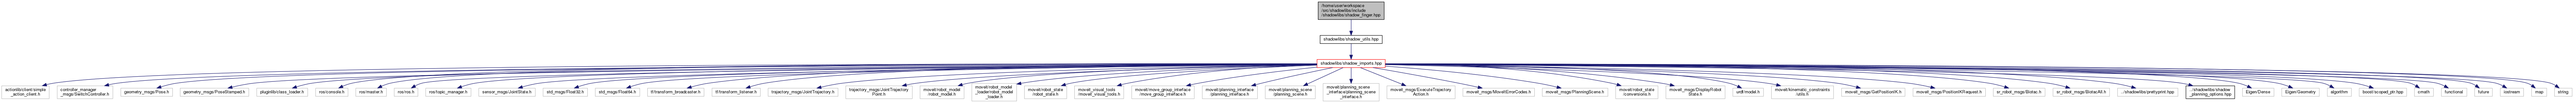
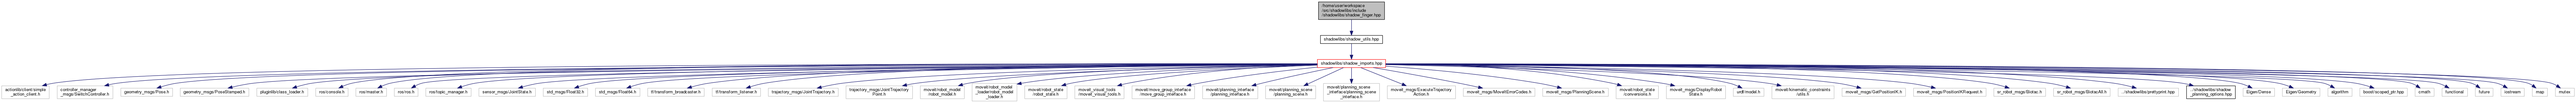
Add import for mutex

diff --git a/docs/doxygen_generated/html/shadow__imports_8hpp_source.html b/docs/doxygen_generated/html/shadow__imports_8hpp_source.html
@@ -89,7 +89,7 @@ var searchBox = new SearchBox("searchBox", "search",false,'Search');
 <div class="title">shadow_imports.hpp</div>  </div>
 </div><!--header-->
 <div class="contents">
-<a href="shadow__imports_8hpp.html">Go to the documentation of this file.</a><div class="fragment"><div class="line"><a name="l00001"></a><span class="lineno">    1</span>&#160;<span class="comment">//</span></div><div class="line"><a name="l00002"></a><span class="lineno">    2</span>&#160;<span class="comment">// Created by kganguly on 5/3/19.</span></div><div class="line"><a name="l00003"></a><span class="lineno">    3</span>&#160;<span class="comment">//</span></div><div class="line"><a name="l00004"></a><span class="lineno">    4</span>&#160;</div><div class="line"><a name="l00005"></a><span class="lineno">    5</span>&#160;<span class="preprocessor">#pragma once</span></div><div class="line"><a name="l00006"></a><span class="lineno">    6</span>&#160;</div><div class="line"><a name="l00007"></a><span class="lineno">    7</span>&#160;<span class="comment">// ROS</span></div><div class="line"><a name="l00008"></a><span class="lineno">    8</span>&#160;<span class="preprocessor">#include &lt;actionlib/client/simple_action_client.h&gt;</span></div><div class="line"><a name="l00009"></a><span class="lineno">    9</span>&#160;<span class="preprocessor">#include &lt;controller_manager_msgs/SwitchController.h&gt;</span></div><div class="line"><a name="l00010"></a><span class="lineno">   10</span>&#160;<span class="preprocessor">#include &lt;geometry_msgs/Pose.h&gt;</span></div><div class="line"><a name="l00011"></a><span class="lineno">   11</span>&#160;<span class="preprocessor">#include &lt;geometry_msgs/PoseStamped.h&gt;</span></div><div class="line"><a name="l00012"></a><span class="lineno">   12</span>&#160;<span class="preprocessor">#include &lt;pluginlib/class_loader.h&gt;</span></div><div class="line"><a name="l00013"></a><span class="lineno">   13</span>&#160;<span class="preprocessor">#include &lt;ros/console.h&gt;</span></div><div class="line"><a name="l00014"></a><span class="lineno">   14</span>&#160;<span class="preprocessor">#include &lt;ros/master.h&gt;</span></div><div class="line"><a name="l00015"></a><span class="lineno">   15</span>&#160;<span class="preprocessor">#include &lt;ros/ros.h&gt;</span></div><div class="line"><a name="l00016"></a><span class="lineno">   16</span>&#160;<span class="preprocessor">#include &lt;ros/topic_manager.h&gt;</span></div><div class="line"><a name="l00017"></a><span class="lineno">   17</span>&#160;<span class="preprocessor">#include &lt;sensor_msgs/JointState.h&gt;</span></div><div class="line"><a name="l00018"></a><span class="lineno">   18</span>&#160;<span class="preprocessor">#include &lt;std_msgs/Float32.h&gt;</span></div><div class="line"><a name="l00019"></a><span class="lineno">   19</span>&#160;<span class="preprocessor">#include &lt;std_msgs/Float64.h&gt;</span></div><div class="line"><a name="l00020"></a><span class="lineno">   20</span>&#160;<span class="preprocessor">#include &lt;tf/transform_broadcaster.h&gt;</span></div><div class="line"><a name="l00021"></a><span class="lineno">   21</span>&#160;<span class="preprocessor">#include &lt;tf/transform_listener.h&gt;</span></div><div class="line"><a name="l00022"></a><span class="lineno">   22</span>&#160;<span class="preprocessor">#include &lt;trajectory_msgs/JointTrajectory.h&gt;</span></div><div class="line"><a name="l00023"></a><span class="lineno">   23</span>&#160;<span class="preprocessor">#include &lt;trajectory_msgs/JointTrajectoryPoint.h&gt;</span></div><div class="line"><a name="l00024"></a><span class="lineno">   24</span>&#160;</div><div class="line"><a name="l00025"></a><span class="lineno">   25</span>&#160;<span class="comment">// MoveIt</span></div><div class="line"><a name="l00026"></a><span class="lineno">   26</span>&#160;<span class="preprocessor">#include &lt;moveit/robot_model/robot_model.h&gt;</span></div><div class="line"><a name="l00027"></a><span class="lineno">   27</span>&#160;<span class="preprocessor">#include &lt;moveit/robot_model_loader/robot_model_loader.h&gt;</span></div><div class="line"><a name="l00028"></a><span class="lineno">   28</span>&#160;<span class="preprocessor">#include &lt;moveit/robot_state/robot_state.h&gt;</span></div><div class="line"><a name="l00029"></a><span class="lineno">   29</span>&#160;</div><div class="line"><a name="l00030"></a><span class="lineno">   30</span>&#160;<span class="comment">// RViz</span></div><div class="line"><a name="l00031"></a><span class="lineno">   31</span>&#160;<span class="preprocessor">#include &lt;moveit_visual_tools/moveit_visual_tools.h&gt;</span></div><div class="line"><a name="l00032"></a><span class="lineno">   32</span>&#160;</div><div class="line"><a name="l00033"></a><span class="lineno">   33</span>&#160;<span class="comment">// MoveIt Planning</span></div><div class="line"><a name="l00034"></a><span class="lineno">   34</span>&#160;<span class="preprocessor">#include &lt;moveit/move_group_interface/move_group_interface.h&gt;</span></div><div class="line"><a name="l00035"></a><span class="lineno">   35</span>&#160;<span class="preprocessor">#include &lt;moveit/planning_interface/planning_interface.h&gt;</span></div><div class="line"><a name="l00036"></a><span class="lineno">   36</span>&#160;<span class="preprocessor">#include &lt;moveit/planning_scene/planning_scene.h&gt;</span></div><div class="line"><a name="l00037"></a><span class="lineno">   37</span>&#160;<span class="preprocessor">#include &lt;moveit/planning_scene_interface/planning_scene_interface.h&gt;</span></div><div class="line"><a name="l00038"></a><span class="lineno">   38</span>&#160;<span class="preprocessor">#include &lt;moveit_msgs/ExecuteTrajectoryAction.h&gt;</span></div><div class="line"><a name="l00039"></a><span class="lineno">   39</span>&#160;<span class="preprocessor">#include &lt;moveit_msgs/MoveItErrorCodes.h&gt;</span></div><div class="line"><a name="l00040"></a><span class="lineno">   40</span>&#160;<span class="preprocessor">#include &lt;moveit_msgs/PlanningScene.h&gt;</span></div><div class="line"><a name="l00041"></a><span class="lineno">   41</span>&#160;</div><div class="line"><a name="l00042"></a><span class="lineno">   42</span>&#160;<span class="comment">// Robot State</span></div><div class="line"><a name="l00043"></a><span class="lineno">   43</span>&#160;<span class="preprocessor">#include &lt;moveit/robot_state/conversions.h&gt;</span></div><div class="line"><a name="l00044"></a><span class="lineno">   44</span>&#160;<span class="preprocessor">#include &lt;moveit_msgs/DisplayRobotState.h&gt;</span></div><div class="line"><a name="l00045"></a><span class="lineno">   45</span>&#160;<span class="preprocessor">#include &lt;urdf/model.h&gt;</span></div><div class="line"><a name="l00046"></a><span class="lineno">   46</span>&#160;</div><div class="line"><a name="l00047"></a><span class="lineno">   47</span>&#160;<span class="comment">// Kinematics</span></div><div class="line"><a name="l00048"></a><span class="lineno">   48</span>&#160;<span class="preprocessor">#include &lt;moveit/kinematic_constraints/utils.h&gt;</span></div><div class="line"><a name="l00049"></a><span class="lineno">   49</span>&#160;<span class="preprocessor">#include &lt;moveit_msgs/GetPositionIK.h&gt;</span></div><div class="line"><a name="l00050"></a><span class="lineno">   50</span>&#160;<span class="preprocessor">#include &lt;moveit_msgs/PositionIKRequest.h&gt;</span></div><div class="line"><a name="l00051"></a><span class="lineno">   51</span>&#160;</div><div class="line"><a name="l00052"></a><span class="lineno">   52</span>&#160;<span class="comment">// BioTac</span></div><div class="line"><a name="l00053"></a><span class="lineno">   53</span>&#160;<span class="preprocessor">#include &lt;sr_robot_msgs/Biotac.h&gt;</span></div><div class="line"><a name="l00054"></a><span class="lineno">   54</span>&#160;<span class="preprocessor">#include &lt;sr_robot_msgs/BiotacAll.h&gt;</span></div><div class="line"><a name="l00055"></a><span class="lineno">   55</span>&#160;</div><div class="line"><a name="l00056"></a><span class="lineno">   56</span>&#160;<span class="comment">// CPP</span></div><div class="line"><a name="l00057"></a><span class="lineno">   57</span>&#160;<span class="preprocessor">#include &quot;../shadowlibs/prettyprint.hpp&quot;</span></div><div class="line"><a name="l00058"></a><span class="lineno">   58</span>&#160;<span class="preprocessor">#include &quot;../shadowlibs/shadow_planning_options.hpp&quot;</span></div><div class="line"><a name="l00059"></a><span class="lineno">   59</span>&#160;<span class="preprocessor">#include &lt;Eigen/Dense&gt;</span></div><div class="line"><a name="l00060"></a><span class="lineno">   60</span>&#160;<span class="preprocessor">#include &lt;Eigen/Geometry&gt;</span></div><div class="line"><a name="l00061"></a><span class="lineno">   61</span>&#160;<span class="preprocessor">#include &lt;algorithm&gt;</span></div><div class="line"><a name="l00062"></a><span class="lineno">   62</span>&#160;<span class="preprocessor">#include &lt;boost/scoped_ptr.hpp&gt;</span></div><div class="line"><a name="l00063"></a><span class="lineno">   63</span>&#160;<span class="preprocessor">#include &lt;cmath&gt;</span></div><div class="line"><a name="l00064"></a><span class="lineno">   64</span>&#160;<span class="preprocessor">#include &lt;functional&gt;</span></div><div class="line"><a name="l00065"></a><span class="lineno">   65</span>&#160;<span class="preprocessor">#include &lt;future&gt;</span></div><div class="line"><a name="l00066"></a><span class="lineno">   66</span>&#160;<span class="preprocessor">#include &lt;iostream&gt;</span></div><div class="line"><a name="l00067"></a><span class="lineno">   67</span>&#160;<span class="preprocessor">#include &lt;map&gt;</span></div><div class="line"><a name="l00068"></a><span class="lineno">   68</span>&#160;<span class="preprocessor">#include &lt;string&gt;</span></div><div class="line"><a name="l00069"></a><span class="lineno">   69</span>&#160;<span class="preprocessor">#include &lt;thread&gt;</span></div><div class="line"><a name="l00070"></a><span class="lineno">   70</span>&#160;<span class="preprocessor">#include &lt;time.h&gt;</span></div><div class="line"><a name="l00071"></a><span class="lineno">   71</span>&#160;<span class="preprocessor">#include &lt;tuple&gt;</span></div></div><!-- fragment --></div><!-- contents -->
+<a href="shadow__imports_8hpp.html">Go to the documentation of this file.</a><div class="fragment"><div class="line"><a name="l00001"></a><span class="lineno">    1</span>&#160;<span class="comment">//</span></div><div class="line"><a name="l00002"></a><span class="lineno">    2</span>&#160;<span class="comment">// Created by kganguly on 5/3/19.</span></div><div class="line"><a name="l00003"></a><span class="lineno">    3</span>&#160;<span class="comment">//</span></div><div class="line"><a name="l00004"></a><span class="lineno">    4</span>&#160;</div><div class="line"><a name="l00005"></a><span class="lineno">    5</span>&#160;<span class="preprocessor">#pragma once</span></div><div class="line"><a name="l00006"></a><span class="lineno">    6</span>&#160;</div><div class="line"><a name="l00007"></a><span class="lineno">    7</span>&#160;<span class="comment">// ROS</span></div><div class="line"><a name="l00008"></a><span class="lineno">    8</span>&#160;<span class="preprocessor">#include &lt;actionlib/client/simple_action_client.h&gt;</span></div><div class="line"><a name="l00009"></a><span class="lineno">    9</span>&#160;<span class="preprocessor">#include &lt;controller_manager_msgs/SwitchController.h&gt;</span></div><div class="line"><a name="l00010"></a><span class="lineno">   10</span>&#160;<span class="preprocessor">#include &lt;geometry_msgs/Pose.h&gt;</span></div><div class="line"><a name="l00011"></a><span class="lineno">   11</span>&#160;<span class="preprocessor">#include &lt;geometry_msgs/PoseStamped.h&gt;</span></div><div class="line"><a name="l00012"></a><span class="lineno">   12</span>&#160;<span class="preprocessor">#include &lt;pluginlib/class_loader.h&gt;</span></div><div class="line"><a name="l00013"></a><span class="lineno">   13</span>&#160;<span class="preprocessor">#include &lt;ros/console.h&gt;</span></div><div class="line"><a name="l00014"></a><span class="lineno">   14</span>&#160;<span class="preprocessor">#include &lt;ros/master.h&gt;</span></div><div class="line"><a name="l00015"></a><span class="lineno">   15</span>&#160;<span class="preprocessor">#include &lt;ros/ros.h&gt;</span></div><div class="line"><a name="l00016"></a><span class="lineno">   16</span>&#160;<span class="preprocessor">#include &lt;ros/topic_manager.h&gt;</span></div><div class="line"><a name="l00017"></a><span class="lineno">   17</span>&#160;<span class="preprocessor">#include &lt;sensor_msgs/JointState.h&gt;</span></div><div class="line"><a name="l00018"></a><span class="lineno">   18</span>&#160;<span class="preprocessor">#include &lt;std_msgs/Float32.h&gt;</span></div><div class="line"><a name="l00019"></a><span class="lineno">   19</span>&#160;<span class="preprocessor">#include &lt;std_msgs/Float64.h&gt;</span></div><div class="line"><a name="l00020"></a><span class="lineno">   20</span>&#160;<span class="preprocessor">#include &lt;tf/transform_broadcaster.h&gt;</span></div><div class="line"><a name="l00021"></a><span class="lineno">   21</span>&#160;<span class="preprocessor">#include &lt;tf/transform_listener.h&gt;</span></div><div class="line"><a name="l00022"></a><span class="lineno">   22</span>&#160;<span class="preprocessor">#include &lt;trajectory_msgs/JointTrajectory.h&gt;</span></div><div class="line"><a name="l00023"></a><span class="lineno">   23</span>&#160;<span class="preprocessor">#include &lt;trajectory_msgs/JointTrajectoryPoint.h&gt;</span></div><div class="line"><a name="l00024"></a><span class="lineno">   24</span>&#160;</div><div class="line"><a name="l00025"></a><span class="lineno">   25</span>&#160;<span class="comment">// MoveIt</span></div><div class="line"><a name="l00026"></a><span class="lineno">   26</span>&#160;<span class="preprocessor">#include &lt;moveit/robot_model/robot_model.h&gt;</span></div><div class="line"><a name="l00027"></a><span class="lineno">   27</span>&#160;<span class="preprocessor">#include &lt;moveit/robot_model_loader/robot_model_loader.h&gt;</span></div><div class="line"><a name="l00028"></a><span class="lineno">   28</span>&#160;<span class="preprocessor">#include &lt;moveit/robot_state/robot_state.h&gt;</span></div><div class="line"><a name="l00029"></a><span class="lineno">   29</span>&#160;</div><div class="line"><a name="l00030"></a><span class="lineno">   30</span>&#160;<span class="comment">// RViz</span></div><div class="line"><a name="l00031"></a><span class="lineno">   31</span>&#160;<span class="preprocessor">#include &lt;moveit_visual_tools/moveit_visual_tools.h&gt;</span></div><div class="line"><a name="l00032"></a><span class="lineno">   32</span>&#160;</div><div class="line"><a name="l00033"></a><span class="lineno">   33</span>&#160;<span class="comment">// MoveIt Planning</span></div><div class="line"><a name="l00034"></a><span class="lineno">   34</span>&#160;<span class="preprocessor">#include &lt;moveit/move_group_interface/move_group_interface.h&gt;</span></div><div class="line"><a name="l00035"></a><span class="lineno">   35</span>&#160;<span class="preprocessor">#include &lt;moveit/planning_interface/planning_interface.h&gt;</span></div><div class="line"><a name="l00036"></a><span class="lineno">   36</span>&#160;<span class="preprocessor">#include &lt;moveit/planning_scene/planning_scene.h&gt;</span></div><div class="line"><a name="l00037"></a><span class="lineno">   37</span>&#160;<span class="preprocessor">#include &lt;moveit/planning_scene_interface/planning_scene_interface.h&gt;</span></div><div class="line"><a name="l00038"></a><span class="lineno">   38</span>&#160;<span class="preprocessor">#include &lt;moveit_msgs/ExecuteTrajectoryAction.h&gt;</span></div><div class="line"><a name="l00039"></a><span class="lineno">   39</span>&#160;<span class="preprocessor">#include &lt;moveit_msgs/MoveItErrorCodes.h&gt;</span></div><div class="line"><a name="l00040"></a><span class="lineno">   40</span>&#160;<span class="preprocessor">#include &lt;moveit_msgs/PlanningScene.h&gt;</span></div><div class="line"><a name="l00041"></a><span class="lineno">   41</span>&#160;</div><div class="line"><a name="l00042"></a><span class="lineno">   42</span>&#160;<span class="comment">// Robot State</span></div><div class="line"><a name="l00043"></a><span class="lineno">   43</span>&#160;<span class="preprocessor">#include &lt;moveit/robot_state/conversions.h&gt;</span></div><div class="line"><a name="l00044"></a><span class="lineno">   44</span>&#160;<span class="preprocessor">#include &lt;moveit_msgs/DisplayRobotState.h&gt;</span></div><div class="line"><a name="l00045"></a><span class="lineno">   45</span>&#160;<span class="preprocessor">#include &lt;urdf/model.h&gt;</span></div><div class="line"><a name="l00046"></a><span class="lineno">   46</span>&#160;</div><div class="line"><a name="l00047"></a><span class="lineno">   47</span>&#160;<span class="comment">// Kinematics</span></div><div class="line"><a name="l00048"></a><span class="lineno">   48</span>&#160;<span class="preprocessor">#include &lt;moveit/kinematic_constraints/utils.h&gt;</span></div><div class="line"><a name="l00049"></a><span class="lineno">   49</span>&#160;<span class="preprocessor">#include &lt;moveit_msgs/GetPositionIK.h&gt;</span></div><div class="line"><a name="l00050"></a><span class="lineno">   50</span>&#160;<span class="preprocessor">#include &lt;moveit_msgs/PositionIKRequest.h&gt;</span></div><div class="line"><a name="l00051"></a><span class="lineno">   51</span>&#160;</div><div class="line"><a name="l00052"></a><span class="lineno">   52</span>&#160;<span class="comment">// BioTac</span></div><div class="line"><a name="l00053"></a><span class="lineno">   53</span>&#160;<span class="preprocessor">#include &lt;sr_robot_msgs/Biotac.h&gt;</span></div><div class="line"><a name="l00054"></a><span class="lineno">   54</span>&#160;<span class="preprocessor">#include &lt;sr_robot_msgs/BiotacAll.h&gt;</span></div><div class="line"><a name="l00055"></a><span class="lineno">   55</span>&#160;</div><div class="line"><a name="l00056"></a><span class="lineno">   56</span>&#160;<span class="comment">// CPP</span></div><div class="line"><a name="l00057"></a><span class="lineno">   57</span>&#160;<span class="preprocessor">#include &quot;../shadowlibs/prettyprint.hpp&quot;</span></div><div class="line"><a name="l00058"></a><span class="lineno">   58</span>&#160;<span class="preprocessor">#include &quot;../shadowlibs/shadow_planning_options.hpp&quot;</span></div><div class="line"><a name="l00059"></a><span class="lineno">   59</span>&#160;<span class="preprocessor">#include &lt;Eigen/Dense&gt;</span></div><div class="line"><a name="l00060"></a><span class="lineno">   60</span>&#160;<span class="preprocessor">#include &lt;Eigen/Geometry&gt;</span></div><div class="line"><a name="l00061"></a><span class="lineno">   61</span>&#160;<span class="preprocessor">#include &lt;algorithm&gt;</span></div><div class="line"><a name="l00062"></a><span class="lineno">   62</span>&#160;<span class="preprocessor">#include &lt;boost/scoped_ptr.hpp&gt;</span></div><div class="line"><a name="l00063"></a><span class="lineno">   63</span>&#160;<span class="preprocessor">#include &lt;cmath&gt;</span></div><div class="line"><a name="l00064"></a><span class="lineno">   64</span>&#160;<span class="preprocessor">#include &lt;functional&gt;</span></div><div class="line"><a name="l00065"></a><span class="lineno">   65</span>&#160;<span class="preprocessor">#include &lt;future&gt;</span></div><div class="line"><a name="l00066"></a><span class="lineno">   66</span>&#160;<span class="preprocessor">#include &lt;iostream&gt;</span></div><div class="line"><a name="l00067"></a><span class="lineno">   67</span>&#160;<span class="preprocessor">#include &lt;map&gt;</span></div><div class="line"><a name="l00068"></a><span class="lineno">   68</span>&#160;<span class="preprocessor">#include &lt;mutex&gt;</span></div><div class="line"><a name="l00069"></a><span class="lineno">   69</span>&#160;<span class="preprocessor">#include &lt;string&gt;</span></div><div class="line"><a name="l00070"></a><span class="lineno">   70</span>&#160;<span class="preprocessor">#include &lt;thread&gt;</span></div><div class="line"><a name="l00071"></a><span class="lineno">   71</span>&#160;<span class="preprocessor">#include &lt;time.h&gt;</span></div><div class="line"><a name="l00072"></a><span class="lineno">   72</span>&#160;<span class="preprocessor">#include &lt;tuple&gt;</span></div></div><!-- fragment --></div><!-- contents -->
 <!-- start footer part -->
 <hr class="footer"/><address class="footer"><small>
 Generated by &#160;<a href="http://www.doxygen.org/index.html">

diff --git a/docs/doxygen_generated/html/shadow__imports_8hpp.html b/docs/doxygen_generated/html/shadow__imports_8hpp.html
@@ -135,6 +135,7 @@ var searchBox = new SearchBox("searchBox", "search",false,'Search');
 <code>#include &lt;future&gt;</code><br />
 <code>#include &lt;iostream&gt;</code><br />
 <code>#include &lt;map&gt;</code><br />
+<code>#include &lt;mutex&gt;</code><br />
 <code>#include &lt;string&gt;</code><br />
 <code>#include &lt;thread&gt;</code><br />
 <code>#include &lt;time.h&gt;</code><br />

diff --git a/include/shadowlibs/shadow_imports.hpp b/include/shadowlibs/shadow_imports.hpp
@@ -65,6 +65,7 @@
 #include <future>
 #include <iostream>
 #include <map>
+#include <mutex>
 #include <string>
 #include <thread>
 #include <time.h>
